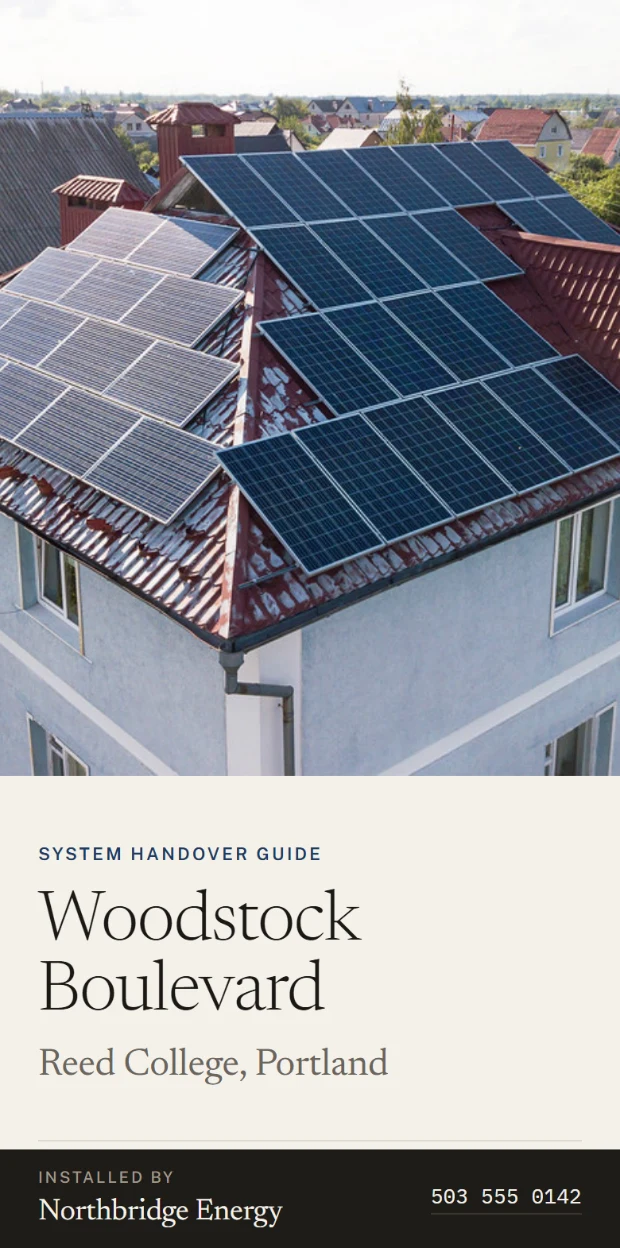
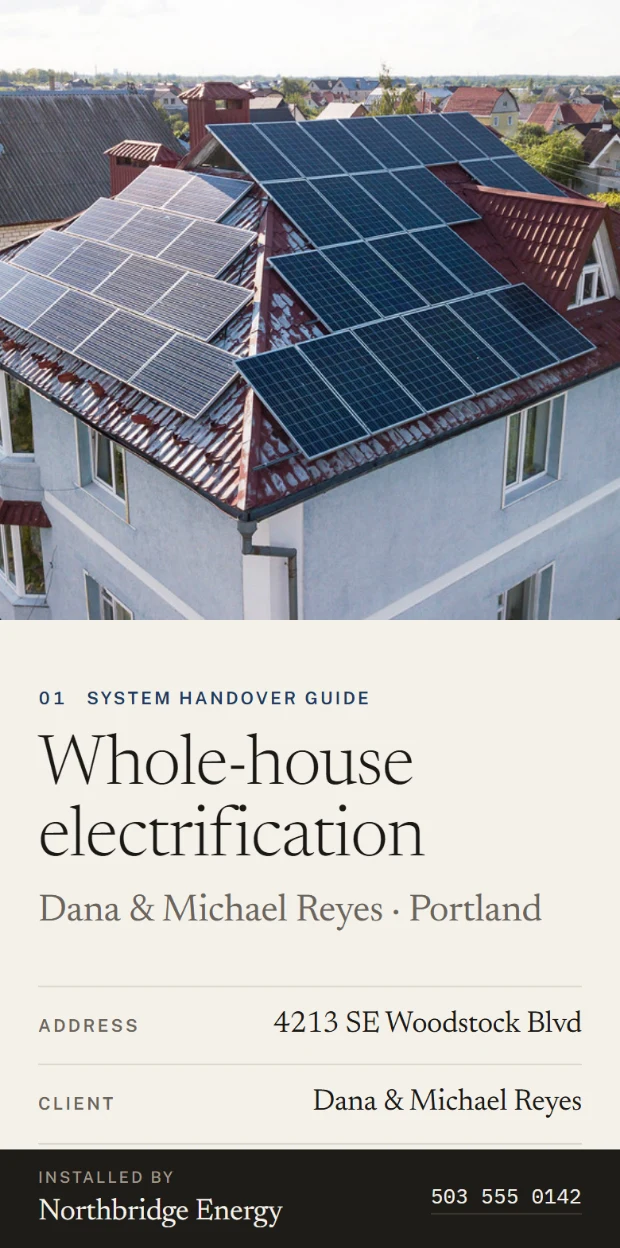
Follow the cabin and handover guides where they moved
Re-shot all eight frames against the live pages. The listing and
aftercare guides re-encoded byte for byte, so those two have not changed
since the last pass; the other two had.

The handover guide leads on the job now, not the street: its title is
"Whole-house electrification", with the client and the address as fields
under it. The example carries that name, and the line under it moved the
street there instead - Handover, Woodstock Boulevard, Portland. Its
gallery screen sat 20px off after the page shortened.

The cabin's front page lost the map link and its door code is no longer
set in ochre, and the amenities section moved up 40px, so the hot tub
screen needed reframing.

What is in either guide has not changed, so both lists stand.

diff --git a/index.html b/index.html
@@ -65,7 +65,7 @@
             <div class="frame on"><img src="images/guide-openhouse-home.webp" width="620" height="1248" alt="A listing guide on a phone: 268 Harper’s Mill Drive over a photo of the home, the sold price below it, and the agent’s call band pinned across the bottom." loading="eager" decoding="async"></div>
             <div class="frame"><img data-src="images/guide-aftercare-home.webp" width="620" height="1248" alt="An aftercare guide on the same phone: After your cataract surgery, marked right eye, over the clinic’s list of reasons to call." decoding="async"></div>
             <div class="frame"><img data-src="images/guide-checkin-home.webp" width="620" height="1248" alt="A guest check-in guide on the same phone: Laurel Fork Cabin over a photo of the fireplace, with the door code below it." decoding="async"></div>
-            <div class="frame"><img data-src="images/guide-handover-home.webp" width="620" height="1248" alt="A handover guide on the same phone: Woodstock Boulevard over the finished solar array, with the installer’s call band pinned across the bottom." decoding="async"></div>
+            <div class="frame"><img data-src="images/guide-handover-home.webp" width="620" height="1248" alt="A handover guide on the same phone: whole-house electrification over a photo of the finished array, with the address, the client and the installer’s call band under it." decoding="async"></div>
           </div>
           </div>
         </div>

diff --git a/script.js b/script.js
@@ -140,11 +140,11 @@ document.addEventListener('DOMContentLoaded',function(){
      ],
      inGuide:['Door and gate codes','Wi-Fi, heat, hot water','Hot tub, fire pit, grill','Nearby, with drive times','Check-out at 10am'],
      result:'The binder on the kitchen counter nobody opens.'},
-    {title:'Woodstock Boulevard',
-     meta:'Handover · Northbridge Energy, Portland',
+    {title:'Whole-house electrification',
+     meta:'Handover · Woodstock Boulevard, Portland',
      url:'https://handover-example.vercel.app/',
      frames:[
-       {src:'guide-handover-home.webp',alt:'The guide’s opening screen: the finished solar array over Woodstock Boulevard and the installer’s name.'},
+       {src:'guide-handover-home.webp',alt:'The guide’s opening screen: the finished array over the roof, the job named as whole-house electrification, with the address, the client and the installer under it.'},
        {src:'guide-handover-equipment.webp',alt:'Further down the same guide: the installed equipment gallery, opening on the Powerwall mounted on the garage wall.'}
      ],
      inGuide:['What was installed','Equipment, model by model','Cover and expiry','What to do, and when','Trades and suppliers'],
